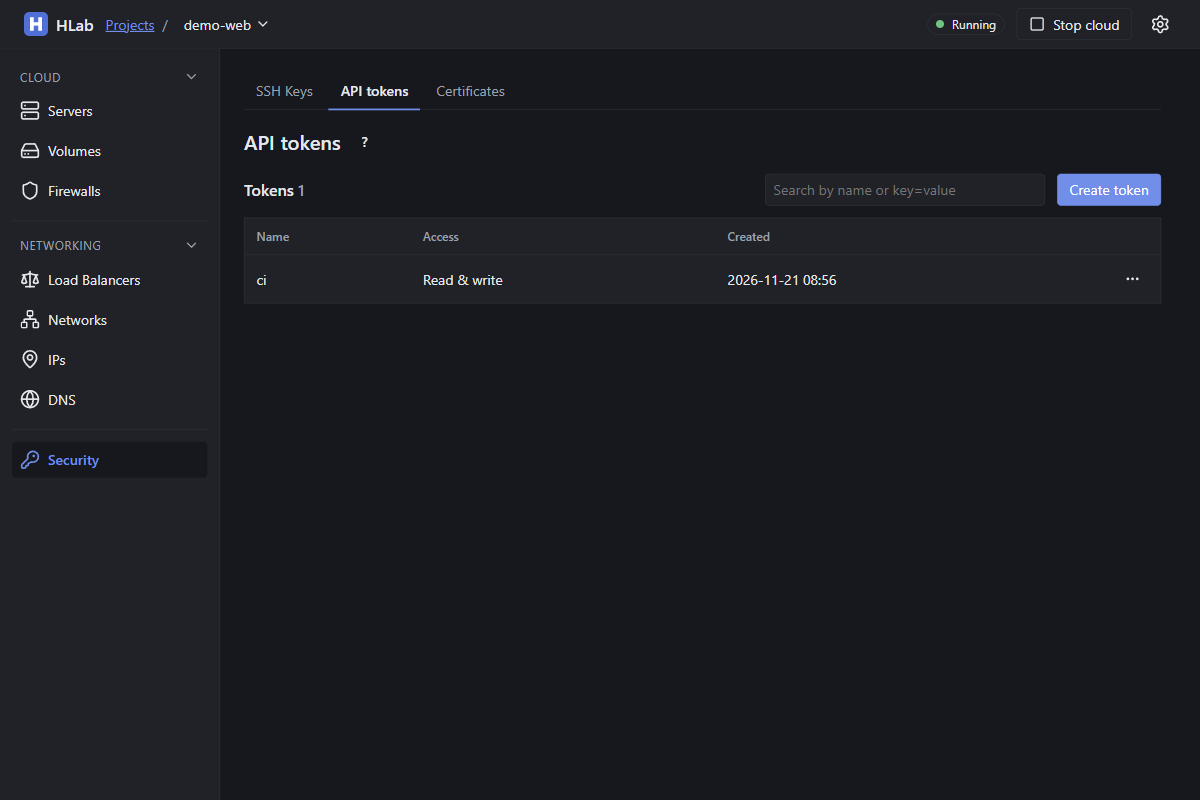
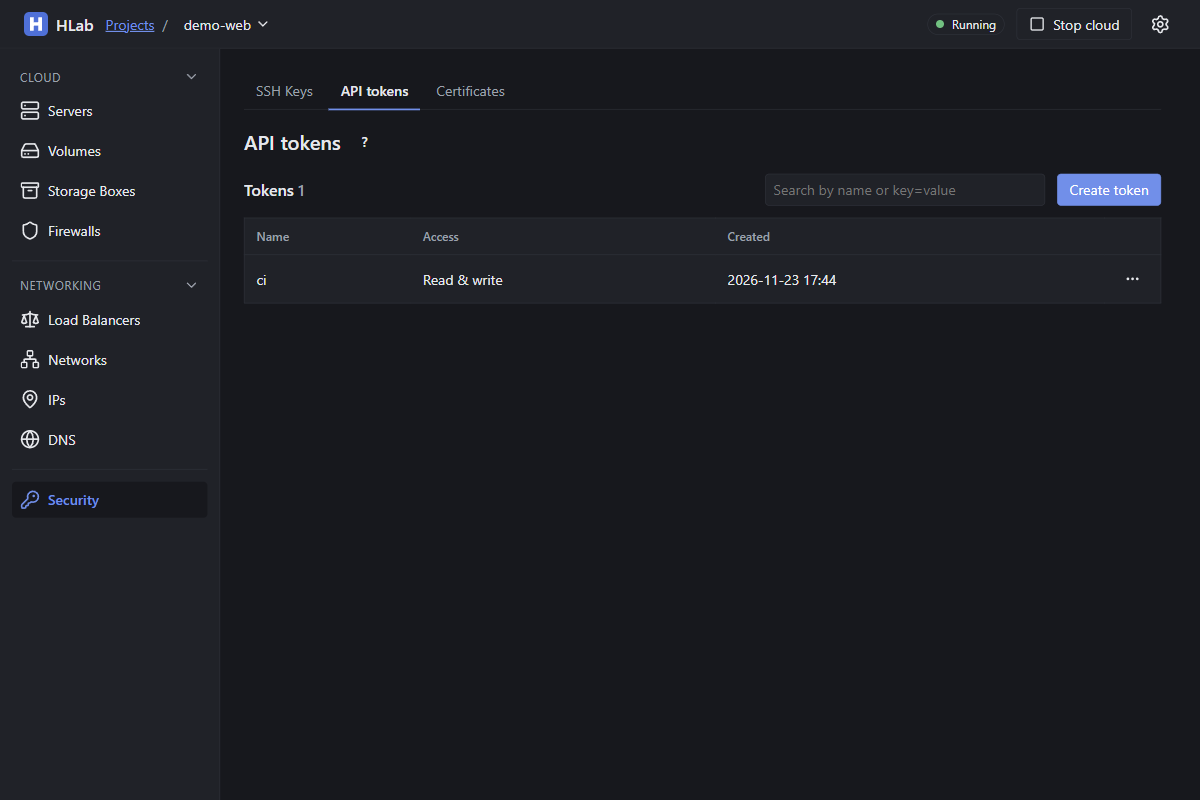
Add README screenshots of the console's Storage Boxes section
The screenshot tool creates a storage box in demo-web through the
Hetzner API with a short-lived token and removes what it created; the
spec captures the Storage Boxes list in light and dark.

diff --git a/ui/frontend/tests/screenshots/console.spec.ts b/ui/frontend/tests/screenshots/console.spec.ts
@@ -1,8 +1,9 @@
 // README screenshots of the tray window (tools/screenshots, task
 // docs:screenshots): the project list filtered to the sample projects
-// demo-* as cards and the "API tokens" section of demo-web, each in light and dark,
-// written to HLAB_SCREENSHOTS_DIR. The tool creates the samples; only
-// their names and the token's name are on screen, never a token value.
+// demo-* as cards and the "API tokens" and "Storage Boxes" sections of
+// demo-web, each in light and dark, written to HLAB_SCREENSHOTS_DIR. The
+// tool creates the samples; only their names, the token's name and the
+// storage box are on screen, never a token value.
 import path from "node:path";
 import type { Page } from "@playwright/test";
 import { test, expect, env, openView, tableRow } from "../e2e/fixtures";
@@ -41,6 +42,11 @@ test("README screenshots", async ({ page }) => {
     await section(page, "API tokens");
     await expect(tableRow(page, "ci")).toBeVisible();
     await shoot(page, "tokens");
+
+    // The storage box "backups" of demo-web.
+    await section(page, "Storage Boxes");
+    await expect(tableRow(page, "backups")).toBeVisible();
+    await shoot(page, "storage-boxes");
   } finally {
     await page.emulateMedia({ colorScheme: null });
     const cdp = await page.context().newCDPSession(page);

diff --git a/tools/screenshots/main.go b/tools/screenshots/main.go
@@ -1,20 +1,26 @@
 // Command screenshots renders the README screenshots of the tray window
 // (`task docs:screenshots`, run from the repository root with the dev cloud
-// running): the project list and the "API tokens" section of a project
-// console, each in light and dark, into docs/images.
+// running): the project list and the "API tokens" and "Storage Boxes"
+// sections of a project console, each in light and dark, into docs/images.
 //
 // It creates the sample projects demo-web, demo-staging and demo-ci and a
-// token "ci" in demo-web through bin\hlab.exe, starts the e2e build of the
-// tray (test/traylaunch) and runs the Playwright project "screenshots"
-// against its window over CDP. Afterwards it deletes only the projects and
-// the token it created; a token value is never printed or shown.
+// token "ci" in demo-web through bin\hlab.exe, a storage box "backups" in
+// demo-web through the Hetzner API with a token that lives only for that
+// step, starts the e2e build of the tray (test/traylaunch) and runs the
+// Playwright project "screenshots" against its window over CDP. Afterwards
+// it deletes only the projects, the token and the box it created; a token
+// value is never printed or shown.
 package main
 
 import (
+	"bytes"
 	"context"
+	"crypto/rand"
 	"encoding/json"
 	"errors"
 	"fmt"
+	"io"
+	"net/http"
 	"os"
 	"os/exec"
 	"path/filepath"
@@ -33,6 +39,16 @@ var samples = []string{"demo-web", "demo-staging", "demo-ci"}
 const (
 	tokenProject = "demo-web"
 	tokenName    = "ci"
+	// boxName is the storage box in tokenProject; tempToken is the token
+	// that creates or deletes it and is revoked right after.
+	boxName   = "backups"
+	tempToken = "screenshots"
+	// hetznerEndpoint is hlab's Hetzner API (storage boxes), apiEndpoint
+	// its Cloud API, whose /actions also hold storage box actions.
+	hetznerEndpoint = "http://api.hetzner.internal/hetzner/v1"
+	apiEndpoint     = "http://api.hetzner.internal/v1"
+	boxLocation     = "fsn1"
+	boxType         = "bx11"
 )
 
 func main() {
@@ -117,7 +133,8 @@ func run() (err error) {
 // created is what this run added and removes again.
 type created struct {
 	projects []string
-	token    bool // the token in tokenProject, when that project existed before
+	token    bool  // the token in tokenProject, when that project existed before
+	box      int64 // the storage box in tokenProject, when that project existed before
 }
 
 // createSamples creates the sample projects that do not exist yet and the
@@ -154,24 +171,176 @@ func createSamples(ctx context.Context, hlab string) (created, error) {
 	if err := hlabJSON(ctx, hlab, &tokens, "token", "list", "--project", tokenProject); err != nil {
 		return c, err
 	}
+	hasToken := false
 	for _, t := range tokens.Tokens {
-		if t.Name == tokenName {
-			return c, nil
+		hasToken = hasToken || t.Name == tokenName
+	}
+	if !hasToken {
+		// The output holds the token value; hlabJSON never shows it.
+		if err := hlabJSON(ctx, hlab, nil, "token", "create", "--project", tokenProject, "--name", tokenName); err != nil {
+			return c, err
 		}
+		c.token = !slices.Contains(c.projects, tokenProject)
 	}
-	// The output holds the token value; hlabJSON never shows it.
-	if err := hlabJSON(ctx, hlab, nil, "token", "create", "--project", tokenProject, "--name", tokenName); err != nil {
-		return c, err
-	}
-	c.token = !slices.Contains(c.projects, tokenProject)
-	return c, nil
+	return c, createBox(ctx, hlab, &c)
 }
 
-// cleanup revokes the token and deletes the projects this run created.
+// createBox creates the storage box boxName in tokenProject unless it
+// exists and waits until its creation (which may boot the storage VM) is
+// done.
+func createBox(ctx context.Context, hlab string, c *created) error {
+	return withToken(ctx, hlab, func(token string) error {
+		var boxes struct {
+			StorageBoxes []struct {
+				ID int64 `json:"id"`
+			} `json:"storage_boxes"`
+		}
+		if err := request(ctx, token, http.MethodGet, hetznerEndpoint+"/storage_boxes?name="+boxName, nil, &boxes); err != nil {
+			return err
+		}
+		if len(boxes.StorageBoxes) > 0 {
+			return nil
+		}
+		var resp struct {
+			StorageBox struct {
+				ID int64 `json:"id"`
+			} `json:"storage_box"`
+			Action struct {
+				ID int64 `json:"id"`
+			} `json:"action"`
+		}
+		body := map[string]any{
+			"name":             boxName,
+			"location":         boxLocation,
+			"storage_box_type": boxType,
+			// Upper and lower case, a digit and a special character.
+			"password": "Shot-" + rand.Text()[:12] + "-9z",
+		}
+		fmt.Println("creating the storage box", boxName)
+		if err := request(ctx, token, http.MethodPost, hetznerEndpoint+"/storage_boxes", body, &resp); err != nil {
+			return err
+		}
+		if !slices.Contains(c.projects, tokenProject) {
+			c.box = resp.StorageBox.ID
+		}
+		return poll(ctx, 20*time.Minute, func() (bool, error) {
+			var a struct {
+				Action struct {
+					Status string `json:"status"`
+				} `json:"action"`
+			}
+			err := request(ctx, token, http.MethodGet, fmt.Sprintf("%s/actions/%d", apiEndpoint, resp.Action.ID), nil, &a)
+			if err == nil && a.Action.Status == "error" {
+				err = errors.New("creating the storage box failed")
+			}
+			return a.Action.Status == "success", err
+		})
+	})
+}
+
+// deleteBox deletes the storage box id of tokenProject and waits until it
+// is gone.
+func deleteBox(ctx context.Context, hlab string, id int64) error {
+	return withToken(ctx, hlab, func(token string) error {
+		url := fmt.Sprintf("%s/storage_boxes/%d", hetznerEndpoint, id)
+		return poll(ctx, 10*time.Minute, func() (bool, error) {
+			var se statusError
+			err := request(ctx, token, http.MethodDelete, url, nil, nil)
+			switch {
+			case errors.As(err, &se) && se == http.StatusNotFound:
+				return true, nil
+			case errors.As(err, &se) && se == http.StatusLocked:
+				return false, nil // an action of the box still runs
+			case err != nil:
+				return false, err
+			}
+			err = request(ctx, token, http.MethodGet, url, nil, nil)
+			if errors.As(err, &se) && se == http.StatusNotFound {
+				return true, nil
+			}
+			return false, err
+		})
+	})
+}
+
+// withToken creates the token tempToken in tokenProject, calls fn with its
+// value and revokes the token again.
+func withToken(ctx context.Context, hlab string, fn func(token string) error) (err error) {
+	var t struct {
+		Token string `json:"token"`
+	}
+	if err := hlabJSON(ctx, hlab, &t, "token", "create", "--project", tokenProject, "--name", tempToken); err != nil {
+		return err
+	}
+	defer func() {
+		err = errors.Join(err, hlabJSON(ctx, hlab, nil, "token", "revoke", tempToken, "--project", tokenProject))
+	}()
+	return fn(t.Token)
+}
+
+// statusError is an HTTP status other than 2xx.
+type statusError int
+
+func (e statusError) Error() string { return fmt.Sprintf("status %d", int(e)) }
+
+// request sends one request with the token and an optional JSON body and
+// decodes a JSON answer into v (nil: discarded).
+func request(ctx context.Context, token, method, url string, body, v any) error {
+	var r io.Reader
+	if body != nil {
+		b, err := json.Marshal(body)
+		if err != nil {
+			return err
+		}
+		r = bytes.NewReader(b)
+	}
+	req, err := http.NewRequestWithContext(ctx, method, url, r)
+	if err != nil {
+		return err
+	}
+	req.Header.Set("Authorization", "Bearer "+token)
+	req.Header.Set("Content-Type", "application/json")
+	resp, err := http.DefaultClient.Do(req)
+	if err != nil {
+		return err
+	}
+	defer func() { _ = resp.Body.Close() }()
+	if resp.StatusCode/100 != 2 {
+		return fmt.Errorf("%s %s: %w", method, url, statusError(resp.StatusCode))
+	}
+	if v == nil {
+		return nil
+	}
+	return json.NewDecoder(resp.Body).Decode(v)
+}
+
+// poll calls done every two seconds until it reports true, fails or the
+// limit passes.
+func poll(ctx context.Context, limit time.Duration, done func() (bool, error)) error {
+	ctx, cancel := context.WithTimeout(ctx, limit)
+	defer cancel()
+	for {
+		ok, err := done()
+		if ok || err != nil {
+			return err
+		}
+		select {
+		case <-ctx.Done():
+			return fmt.Errorf("still waiting after %s: %w", limit, ctx.Err())
+		case <-time.After(2 * time.Second):
+		}
+	}
+}
+
+// cleanup deletes the storage box, revokes the token and deletes the
+// projects this run created; a project takes its storage box with it.
 func cleanup(hlab string, c created) error {
 	ctx, cancel := context.WithTimeout(context.Background(), 30*time.Minute)
 	defer cancel()
 	var errs []error
+	if c.box != 0 {
+		errs = append(errs, deleteBox(ctx, hlab, c.box))
+	}
 	if c.token {
 		errs = append(errs, hlabJSON(ctx, hlab, nil, "token", "revoke", tokenName, "--project", tokenProject))
 	}

diff --git a/README.md b/README.md
@@ -247,6 +247,14 @@ confirm.
     folder browser), Subaccounts, Snapshots (with the snapshot plan),
     Settings and Labels. See
     [Storage boxes in the window](docs/guide.md#storage-boxes-in-the-window).
+
+    <p align="center">
+      <picture>
+        <source media="(prefers-color-scheme: dark)" srcset="docs/images/storage-boxes-dark.png">
+        <img src="docs/images/storage-boxes-light.png" alt="The storage boxes of a project in the HLab window" width="420">
+      </picture>
+    </p>
+
   - **API tokens**: **Create token** asks for a name and whether the
     token is read only, and shows the token once with a copy button;
     **Revoke** is in the row menu.
